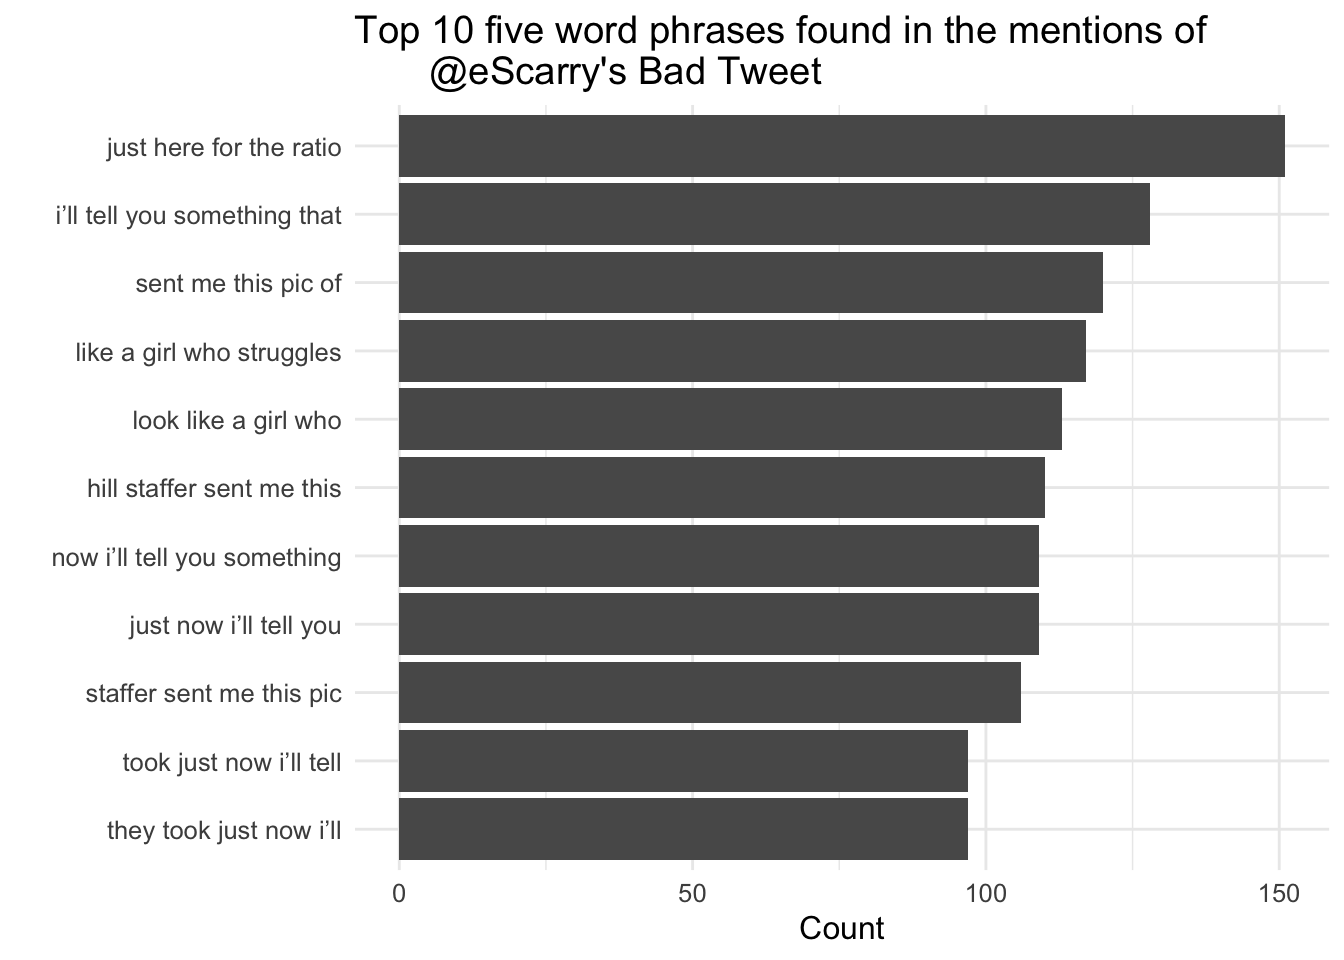
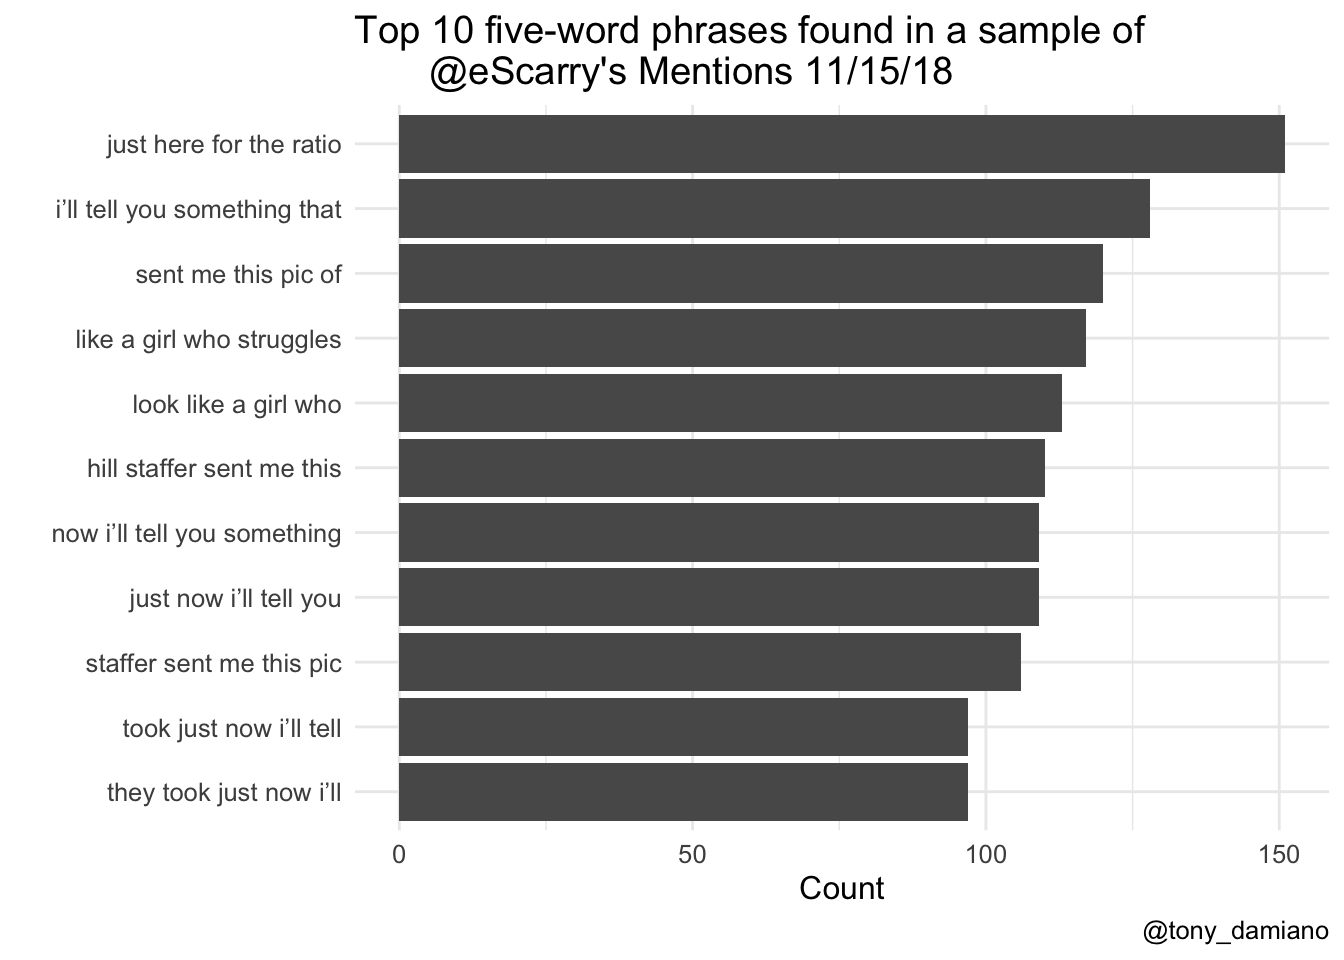
update twitter dm post

diff --git a/content/post/twitter-dm.html b/content/post/twitter-dm.html
@@ -18,25 +18,66 @@ image:
 
 <div id="i-just-wanted-to-learn-data-science" class="section level2">
 <h2>I just wanted to learn data science</h2>
-<p>Thursday Nov 15, 2018 <em>Washington Examiner</em> reporter Eddie Scarry broke the internet worse than Kim Kardashian ever could. In a tweet for the ages, the conservative skeezeball best known for <a href="https://splinternews.com/troll-posts-creepshot-somehow-proving-alexandria-ocasio-1830476245">taking unsuspecting foot pics of random women at restaurants</a>, against all better advice and decency decided to dress down newly elected socialist congresswoman from New York Alexandria Ocasio-Cortez.</p>
-<div class="figure">
-<img src="/post/twitter-dm_files/bad-tweet.jpg" alt="bad=tweet" />
-<p class="caption">bad=tweet</p>
+<p>Thursday, Nov 15, 2018, <em>Washington Examiner</em> reporter Eddie Scarry broke the internet worse than Kim Kardashian ever could. In a tweet for the ages, the conservative skeezeball best known for <a href="https://splinternews.com/troll-posts-creepshot-somehow-proving-alexandria-ocasio-1830476245">taking unsuspecting foot pics of random women at restaurants</a>, against all better advice and decency decided to dress down newly elected socialist congresswoman from New York Alexandria Ocasio-Cortez.</p>
+<p><img src="/img/twitter-dm/bad-tweet.png" /></p>
+<div id="this-is-our-balloon-boy" class="section level3">
+<h3>“This is our balloon boy”</h3>
+<p>I’ll take you inside our dm for the play by play. The reaction to Eddie’s bad tweet started slowly at first, but snowballed as the afternoon progressed.</p>
+<table>
+<thead>
+<tr class="header">
+<th align="center"><i></i></th>
+<th align="center"><i></i></th>
+</tr>
+</thead>
+<tbody>
+<tr class="odd">
+<td align="center"><img src="/img/twitter-dm/dm1.png" /></td>
+<td align="center"><img src="/img/twitter-dm/dm2.png" /></td>
+</tr>
+</tbody>
+</table>
+<p>After a while, the replies kept coming and it wasn’t clear Mr. Scarry would make it through the night.</p>
+<table>
+<thead>
+<tr class="header">
+<th align="center"><i></i></th>
+<th align="center"><i></i></th>
+</tr>
+</thead>
+<tbody>
+<tr class="odd">
+<td align="center"><img src="/img/twitter-dm/dm3.png" /></td>
+<td align="center"><img src="/img/twitter-dm/dm5.png" /></td>
+</tr>
+</tbody>
+</table>
+<p>By the time the things got rolling, there were over 10,000 replies before he deleted the tweet. Despite calling it a day, he decided to tweet through it. Each of his responses spawned its own mini-ratio in a cascading series of ratios that filled the internet (or at least my dm) with unadulterated glee.</p>
+<p><img src="/img/twitter-dm/dm4.png" /></p>
+<p>I had been wanting to learn how to scrape Twitter data for sometime and instead of practicing on something useful, I decided to examine the beauty of Mr. Scarry’s ratio for the ages.</p>
+<p>The following contains the analysis I performed using a sample of Mr. Scarry’s mentions that day interspersed with R code so hopefully my wasted time can provide some social benefit to the several nerds who may eventually read this.</p>
 </div>
-<p>I had been wanting to learn how to gather twitter data for quite sometime and instead of practicing on something useful, I decided to examime the beauty of Mr. Scarry’s ratio for the ages.</p>
 </div>
 <div id="getting-started" class="section level2">
 <h2>Getting started</h2>
 <div id="setting-up-a-twitter-app" class="section level3">
 <h3>Setting up a twitter app</h3>
-<p>Since you’re reading a post called data mining for the “very online” I’m going to assume you have a twitter account and are somewhat familiar with this hell site. You will however, need to create an app and generate tokens which will allow you to access Twitter data from their API.</p>
+<p>Since you’re reading a post called data mining for the “very online”, I’m going to assume you have a twitter account and are somewhat familiar with this hell site. You will however, need to create an app and generate tokens which will allow you to access Twitter data from their API.</p>
 <p>For this analysis I used the <a href="https://rtweet.info/index.html"><strong>rtweet</strong></a> package created by Professor Michael W. Kearney at the University of Missouri. Professor Kearney has a great guide to get you started.</p>
 <p><a href="https://rtweet.info/articles/auth.html">Set up a Twitter App</a></p>
-<p>SIDENOTE: If you are new to R, I would highly reccomend <a href="https://r4ds.had.co.nz/"><em>R for Data Science</em></a> by Garrett Grolemund and Hadley Wickham.</p>
-<p>After I set up the app, I entered the tokens generated into <strong>rtweet</strong>. I also loaded a few other packages to help with data anlysis and cleaning.</p>
-<pre class="r"><code>library(rtweet)     # Access twitter data
-library(tidyverse)  # Suite of tools for data analysis using &quot;tidy&quot; framework
-library(tidytext)   # Tools for text analysis
+<p>SIDENOTE: If you are new to R, I would highly recommend <a href="https://r4ds.had.co.nz/"><em>R for Data Science</em></a> by Garrett Grolemund and Hadley Wickham.</p>
+<p>After I set up the app, I entered the tokens generated into <strong>rtweet</strong>. I also loaded a few other packages to help with data analysis and cleaning.</p>
+<pre class="r"><code># Load pacman package manager
+
+if (!require(pacman)) install.packages(&#39;pacman&#39;)
+library(pacman)
+
+p_load(tidyverse,  # Suite of tools for data analysis using &quot;tidy&quot; framework
+       rtweet,     # Access twitter data
+       tidytext,   # Tools for text analysis
+       maps        # Map data
+       )
+
 
 
 create_token(consumer_key = &quot;Your-Token-Here&quot;,
@@ -44,29 +85,26 @@ consumer_secret = &quot;Your-Token-Here&quot;,
 access_token  = &quot;Your-Token-Here&quot;,
 access_secret = &quot;Your-Token-Here&quot;)</code></pre>
 <p>The main function <strong>rtweet</strong> uses to gather tweet data is <code>search_tweets</code>.</p>
-<p>By the time the things got rolling, there were over 10,000 replies before he deleted the tweet. Depite calling it a day, he decided to tweet through it. Each of his responses spawned its own mini-ratio in a cascading series of ratios that filled the internet (or at least my dm) with unadulteated glee. [pic]</p>
-<p>For this analysis, I querried the Twitter API for tweets conaining Mr. Scarry’s twitter handle “@eScarry” on the date of the incident (I performed this query the night of the 15th, your results if you performed the same query may look different compared to mine).</p>
-<p>NOTE: Twitter limits querries to 18,000 tweets per 15 minutes so setting <code>retryonratelimit = T</code> would allow you to see the full extent of the damage. I decided to search for more, because why not?</p>
+<p>For this analysis, I queried the Twitter API for tweets containing Mr. Scarry’s twitter handle “@eScarry” on the date of the incident (I performed this query the night of the 15th, your results if you performed the same query may look different compared to mine).</p>
+<p>NOTE: Twitter limits queries to 18,000 tweets per 15 minutes so setting <code>retryonratelimit = T</code> allows you to see the full extent of the damage. I decided to search for more, because why not?</p>
 <pre class="r"><code>q &lt;- &quot;@eScarry&quot;
 
 scarry_menchies &lt;- search_tweets(q, n = 20000,
                                  retryonratelimit = TRUE,
                                  include_rts = FALSE,
                                  since  = &quot;2018-11-15&quot;)</code></pre>
-<p>Plan for 10-15 minutes to download a larger dataset like this (<a href="https://developer.twitter.com/en/docs.html">see here for more info on the Twitter API</a>). <strong>rtweet</strong> also has to parse the data from JSON to an R <code>data.frame</code> or <code>tibble</code> which takes some time too.</p>
+<p>Plan for 10-15 minutes to download a larger data set like this (<a href="https://developer.twitter.com/en/docs.html">see here for more info on the Twitter API</a>). <strong>rtweet</strong> also has to parse the data from JSON to an R <code>data.frame</code> or <code>tibble</code> which takes some time too.</p>
 </div>
 </div>
-<div id="data-cleaning" class="section level2">
-<h2>Data cleaning</h2>
-<p>Afterin allowing <em>rtweet</em> to work its magic, I ended up with a rather large tibble. The data set contained a ton of information, 88 columns in total. <em>To think, your hours and hours of shit posting can be summed up such a simple, beautiful table!</em> Here’s a look at the first 10 columns. The first interesting thing to note is that I ended up with close to double the number of tweets I requeseted (my guess is since I set <code>retryonratelimit = T</code> the query stopped after hitting the rate limit twice). Just more data for us!</p>
+<div id="the-data" class="section level2">
+<h2>The Data</h2>
+<p>Twitter’s API is rich and includes a wealth of information, 88 columns in total. <em>To think, your hours and hours of shit posting can be summed up such a beautiful tabular format!</em> Here’s a look at the first 10 columns. The first interesting thing to note is that I ended up with close to double the number of tweets I requested (my guess is since I set <code>retryonratelimit = T</code> the query stopped after hitting the rate limit twice). Just more data for us!</p>
 <pre class="r"><code>scarry_menchies %&gt;% 
   select(1:10) %&gt;%
   glimpse()</code></pre>
 <pre><code>## Observations: 34,995
-## Variables: 10</code></pre>
-<pre><code>## Warning in as.POSIXlt.POSIXct(x, tz): unknown timezone &#39;zone/tz/2018g.1.0/
-## zoneinfo/America/Chicago&#39;</code></pre>
-<pre><code>## $ user_id              &lt;chr&gt; &quot;131173072&quot;, &quot;21507325&quot;, &quot;103414773200340...
+## Variables: 10
+## $ user_id              &lt;chr&gt; &quot;131173072&quot;, &quot;21507325&quot;, &quot;103414773200340...
 ## $ status_id            &lt;chr&gt; &quot;1063269890637918208&quot;, &quot;10632698846233149...
 ## $ created_at           &lt;dttm&gt; 2018-11-16 03:17:51, 2018-11-16 03:17:49...
 ## $ screen_name          &lt;chr&gt; &quot;artisgoodck&quot;, &quot;kevinkam&quot;, &quot;K4Mst3&quot;, &quot;Was...
@@ -76,14 +114,14 @@ scarry_menchies &lt;- search_tweets(q, n = 20000,
 ## $ reply_to_status_id   &lt;chr&gt; &quot;1063240055236501505&quot;, &quot;40823788385036288...
 ## $ reply_to_user_id     &lt;chr&gt; &quot;138203134&quot;, &quot;18155174&quot;, &quot;18155174&quot;, &quot;181...
 ## $ reply_to_screen_name &lt;chr&gt; &quot;Ocasio2018&quot;, &quot;eScarry&quot;, &quot;eScarry&quot;, &quot;eSca...</code></pre>
-<p>A quick look reveals the range of time stamps of tweets my query collected shows the replies I querried were written between 4:06pm CST and 9:17 CST on November 15th. That’s 120 tweets per minute, tough look for my guy Eddie.</p>
+<p>A quick look reveals the range of time stamps of tweets my query collected shows the replies I queried were written between 4:06pm CST and 9:17 CST on November 15th. That’s 120 tweets per minute, tough look for my guy Eddie.</p>
 <pre class="r"><code>min(scarry_menchies$created_at) </code></pre>
 <pre><code>## [1] &quot;2018-11-15 22:06:51 UTC&quot;</code></pre>
 <pre class="r"><code>max(scarry_menchies$created_at)</code></pre>
 <pre><code>## [1] &quot;2018-11-16 03:17:51 UTC&quot;</code></pre>
 <div id="an-international-phenomenon" class="section level3">
 <h3>An international phenomenon</h3>
-<p>Before I did any more intense cleaning, I decided to take a look at the geographic distribution of the mentions. Using <code>lat_lng</code> from <strong>rtweet</strong> and simple mapping capabilities of <strong>ggplot2</strong>, we can see <em>The Bad Tweet</em> was truly an international phenomenon. Though only a small sample of tweets were geotagged (n = 1087), we can see a multitude of tweets coming from outside of the US including a smattering acrosss Europe, Canada, Australia and at least one brave soul in the United Arab Emirates.</p>
+<p>Before I did any more intense cleaning, I decided to take a look at the geographic distribution of the mentions. Using <code>lat_lng</code> from <strong>rtweet</strong> and simple mapping capabilities of <strong>ggplot2</strong>, we can see <em>The Bad Tweet</em> was truly an international phenomenon. Though only a small sample of tweets were geotagged (n = 1087), we can see a multitude of tweets coming from outside of the US including a smattering across Europe, Canada, Australia and at least one brave soul in the United Arab Emirates.</p>
 <pre class="r"><code>world &lt;- ggplot2::map_data(&quot;world&quot;)
 sm_coords &lt;- lat_lng(scarry_menchies)
 
@@ -92,8 +130,9 @@ ggplot() +
   geom_point(data = sm_coords, aes(x = lng, y = lat), color = &quot;#01FF70&quot;, size = 0.5) +
   coord_quickmap() +
   guides(fill = FALSE) +
+  labs(title = &quot;    Geographic Distribution of the mentions of @eScarry&#39;s Bad Tweet&quot;,
+       caption = &quot;@tony_damiano&quot;) +
   theme_void()</code></pre>
-<pre><code>## Warning: Removed 33908 rows containing missing values (geom_point).</code></pre>
 <p><img src="/post/twitter-dm_files/figure-html/unnamed-chunk-5-1.png" width="672" /></p>
 </div>
 </div>
@@ -104,8 +143,8 @@ ggplot() +
 scarry_menchies_tweet &lt;- scarry_menchies %&gt;% 
   filter(reply_to_status_id == &quot;1063183409458102272&quot;) #the bad tweet</code></pre>
 <pre><code>## Warning: package &#39;bindrcpp&#39; was built under R version 3.4.4</code></pre>
-<p>Tweets contain a lot of information that isn’t text – Spefically twitter user names and urls. I used <a href="http://stat545.com/block022_regular-expression.html">regular expressions</a> to filter out some of the noise. For those new to regular expressions, it is a humanly incomprehensible and torturous way to parse text for specific patterns within text strings. There are those brave enough to learn its secrets, but I’m content searching Stack Exchange. No reason to reinvent the wheel.</p>
-<p>In this next step, I used the <a href="https://cran.r-project.org/web/packages/tidytext/vignettes/tidytext.html"><em>tidytext</em></a> package to remove all punctuation, make all words lower-case and remove common words like “it”, “is”, “as”, and so forth. The key function I used is is the <code>unnest_tokens</code> function. <code>unnest_tokens</code> converts each word to lower case and breaks each word into its own line giving us one very very long, 1 x n-words dataset. I removed the HTML and twitter handles, then removed common english words with included “stop_words” list.</p>
+<p>Tweets contain a lot of information that isn’t text – specifically twitter user names and URLs. I used <a href="http://stat545.com/block022_regular-expression.html">regular expressions</a> to filter out some of the noise. For those new to regular expressions, they are a humanly incomprehensible and torturous way to parse text for specific patterns within text strings. There are those brave enough to learn its secrets, but I’m content searching Stack Exchange. No reason to reinvent the wheel.</p>
+<p>In this next step, I used the <a href="https://cran.r-project.org/web/packages/tidytext/vignettes/tidytext.html"><em>tidytext</em></a> package to remove all punctuation, make all words lower-case and remove common words like “it”, “is”, “as”, and so forth. The key function I used is is the <code>unnest_tokens</code> function. <code>unnest_tokens</code> converts each word to lower case and breaks each word into its own line giving us one very very long, 1 x n-words data set. I removed the HTML and twitter handles, then removed common English words with included “stop_words” list.</p>
 <pre class="r"><code>#Remove urls
 text &lt;- scarry_menchies$text %&gt;% 
   gsub(&quot;http.*&quot;, &quot;&quot;, .) 
@@ -121,10 +160,9 @@ data(&quot;stop_words&quot;)
 
 cleaned &lt;- text %&gt;% 
   anti_join(stop_words)</code></pre>
-<pre><code>## Joining, by = &quot;word&quot;</code></pre>
 <div id="top-20-words" class="section level3">
 <h3>Top 20 Words</h3>
-<p>As an easy first step, I plotted the most freuently used 20 words in <em>The Bad Tweet’s</em> mentions. Many of these are to be expected given the content of the orginal tweet (words like “clothes”, “jacket” etc.), however the internet came through with “ratio” as the top word in all of Mr. Scarry’s mentions and “creepy” also making it into the top 10.</p>
+<p>As a first step, I plotted the most frequently used 20 words in my sample of Eddie’s mentions. Many of these are to be expected given the content of the original tweet (words like “clothes”, “jacket” etc.), however the internet came through with “ratio” as the top word in all of Mr. Scarry’s mentions and “creepy” also making it into the top 10.</p>
 <pre class="r"><code>#Top 20 Words
 top20 &lt;- cleaned %&gt;%
   count(word, sort = TRUE) %&gt;%
@@ -135,64 +173,64 @@ top20 &lt;- cleaned %&gt;%
   coord_flip() +
   labs(y = &quot;Count&quot;,
        x = &quot;&quot;,
-       title = &quot;Top 20 unique words found in the mentions of 
-       @eScarry&#39;s Bad Tweet&quot;) +
+       title = &quot;Top 20 unique words found in a sample of
+       @eScarry&#39;s Mentions 11/15/18&quot;,
+       caption = &quot;@tony_damiano&quot;) +
   theme_minimal() +
-  theme(axis.text.y = element_text(size = 12))</code></pre>
-<pre><code>## Selecting by n</code></pre>
-<pre class="r"><code>top20</code></pre>
+  theme(axis.text.y = element_text(size = 12))
+
+top20</code></pre>
 <p><img src="/post/twitter-dm_files/figure-html/unnamed-chunk-8-1.png" width="672" /></p>
 </div>
 <div id="n-grams" class="section level3">
 <h3>N-Grams</h3>
-<p><em>tidytext</em> is a flexible package and we can expand our frequency analysis and look at phrases too. Below is the same analysis as above expcet I told <em>tidytext</em> to find all two word phrases. A lot of ratio talk going on.</p>
+<p><em>tidytext</em> is a flexible package and we can expand our frequency analysis and look at phrases too. Below is the same analysis as above except I told <em>tidytext</em> to find all two-word phrases. A lot of ratio talk going on.</p>
 <pre class="r"><code>ngram2 &lt;- text %&gt;%
   unnest_tokens(paired_words, word, token = &quot;ngrams&quot;, n = 2) %&gt;% 
   count(paired_words, sort = T) %&gt;% 
-  top_n(20) </code></pre>
-<pre><code>## Selecting by n</code></pre>
-<pre class="r"><code>ngram2 %&gt;%
+  top_n(20) 
+
+ngram2 %&gt;%
   mutate(paired_words = reorder(paired_words, n)) %&gt;% 
   ggplot(aes(x = paired_words, y = n)) +
   geom_col() +
   coord_flip() +
   labs(y = &quot;Count&quot;,
        x = &quot;&quot;,
-       title = &quot;Top 20 two word phrases found in the mentions of 
-       @eScarry&#39;s Bad Tweet&quot;) +
+       title = &quot;Top 20 two-word phrases found in a sample of
+       @eScarry&#39;s Mentions 11/15/18&quot;,
+       caption = &quot;@tony_damiano&quot;) +
   theme_minimal() +
   theme(text = element_text(size=14))</code></pre>
 <p><img src="/post/twitter-dm_files/figure-html/unnamed-chunk-9-1.png" width="672" /></p>
 </div>
 <div id="just-here-for-the-ratio" class="section level3">
 <h3>Just Here for the Ratio</h3>
-<p>I performed the same analysis with three and four word phrases (not picutred here), but the breakthrough happened once I queried five word phrases. The number one five word phrase in the mentions of Eddie’s bad tweet was “just here for the ratio”.</p>
+<p>I performed the same analysis with three and four word phrases (not pictured here), but the breakthrough happened once I queried five word phrases. The number one five word phrase in the mentions of Eddie’s bad tweet was “just here for the ratio”.</p>
 <pre class="r"><code>ngram5 &lt;- text %&gt;%
   unnest_tokens(n_words, word, token = &quot;ngrams&quot;, n = 5) %&gt;% 
   count(n_words, sort = T) %&gt;% 
-  top_n(10) </code></pre>
-<pre><code>## Selecting by n</code></pre>
-<pre class="r"><code>ngram5 %&gt;%
+  top_n(10) 
+
+ngram5 %&gt;%
   mutate(n_words = reorder(n_words, n)) %&gt;% 
   ggplot(aes(x = n_words, y = n)) +
   geom_col() +
   coord_flip() +
   labs(y = &quot;Count&quot;,
        x = &quot;&quot;,
-       title = &quot;Top 10 five word phrases found in the mentions of 
-       @eScarry&#39;s Bad Tweet&quot;) +
+       title = &quot;Top 10 five-word phrases found in a sample of
+       @eScarry&#39;s Mentions 11/15/18&quot;,
+       caption = &quot;@tony_damiano&quot;) +
   theme_minimal() +
   theme(text = element_text(size=12))</code></pre>
 <p><img src="/post/twitter-dm_files/figure-html/unnamed-chunk-10-1.png" width="672" /></p>
-<div class="figure">
-<img src="/post/twitter-dm_files/chefkiss.jpg" alt="chef-kiss" />
-<p class="caption">chef-kiss</p>
-</div>
+<p><img src="/img/twitter-dm/chef.jpg" /></p>
 <p>Sometimes being on twitter pays off.</p>
 </div>
 <div id="data-science-binch" class="section level3">
 <h3>Data Science Binch!</h3>
-<p>Lastly, as a measure of the density of weird left twitter’s engagement, I did a querry using common weird left twitter phrases including “binch”, “corncob” and “cheif”.</p>
+<p>Lastly, as a measure of the density of weird left twitter’s engagement, I did a query using common weird left twitter phrases including “binch”, “corncob” and “chief”.</p>
 <pre class="r"><code>#Remove urls
 text &lt;- scarry_menchies$text %&gt;% 
   gsub(&quot;http.*&quot;, &quot;&quot;, .) 
@@ -207,9 +245,10 @@ text &lt;- text %&gt;%
 data(&quot;stop_words&quot;)
 
 cleaned &lt;- text %&gt;% 
-  anti_join(stop_words)</code></pre>
-<pre><code>## Joining, by = &quot;word&quot;</code></pre>
-<pre class="r"><code>cleaned %&gt;% 
+  anti_join(stop_words)
+
+
+cleaned %&gt;% 
   count(word, sort = TRUE) %&gt;% 
   filter(str_detect(word, &quot;binch&quot;) |
          str_detect(word, &quot;corncob&quot;) |
@@ -223,10 +262,11 @@ cleaned &lt;- text %&gt;%
   coord_flip() +
   labs(y = &quot;Count&quot;,
        x = &quot;&quot;,
-       title = &quot;Words in the metions of @eScarry&#39;s bad tweet containing
-       &#39;binch&#39;, &#39;corncob&#39; and &#39;chief&#39;&quot;)</code></pre>
+       title = &quot;Words in found in a sample of @eScarry&#39;s mentions containing
+       &#39;binch&#39;, &#39;corncob&#39; and &#39;chief&#39; 11/15/18&quot;,
+       caption = &quot;@tony_damiano&quot;)</code></pre>
 <p><img src="/post/twitter-dm_files/figure-html/unnamed-chunk-11-1.png" width="672" /></p>
-<p>I found “chief” to be the most popular word in this query (n = 46) followed by “corncob” (n = 26) and “binch” (n = 14). There were some lovely riffs on corncob that are worth mentioning including as a present participle “corncobbing”, past participle “corncobbed”, vernacular present participle “corncob’n” (something you do with the fella’s on a lazy afternoon) and my personal favorite - “corncobbery” which is a noun that I define the behavior of an internet buffoon who refuses to log off.</p>
+<p>I found “chief” to be the most popular word in this query (n = 46) followed by “corncob” (n = 26) and “binch” (n = 14). There were some lovely riffs on corncob that are worth mentioning including as a present participle “corncobbing”, past participle “corncobbed”, vernacular present participle “corncob’n” (something you do with the fellas on a lazy afternoon) and my personal favorite - “corncobbery” which is a noun that I define the behavior of an internet buffoon who refuses to log off.</p>
 </div>
 </div>
 <div id="conclusion" class="section level2">
